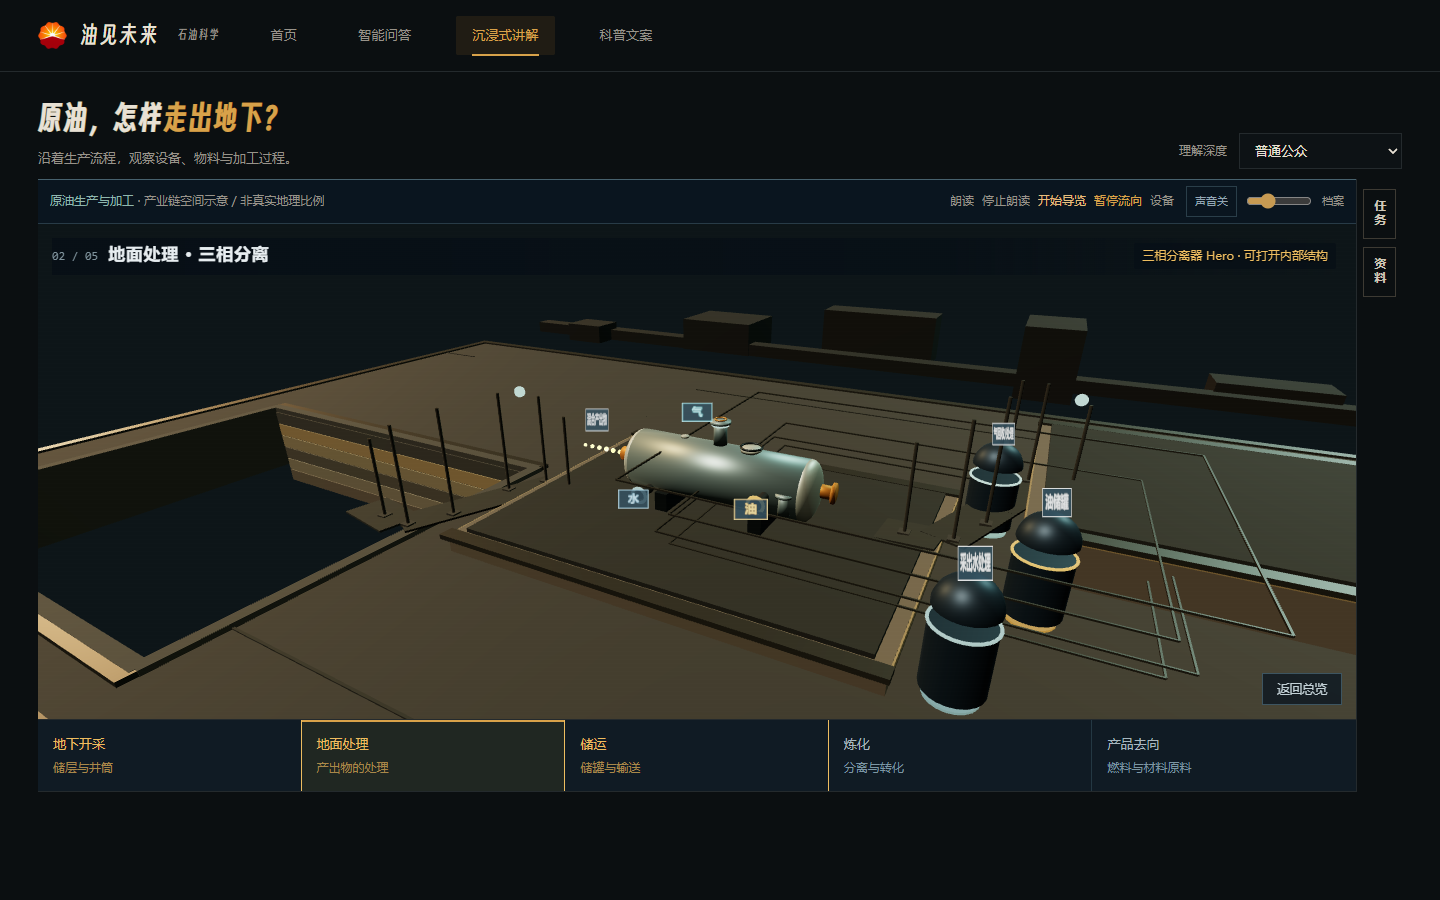
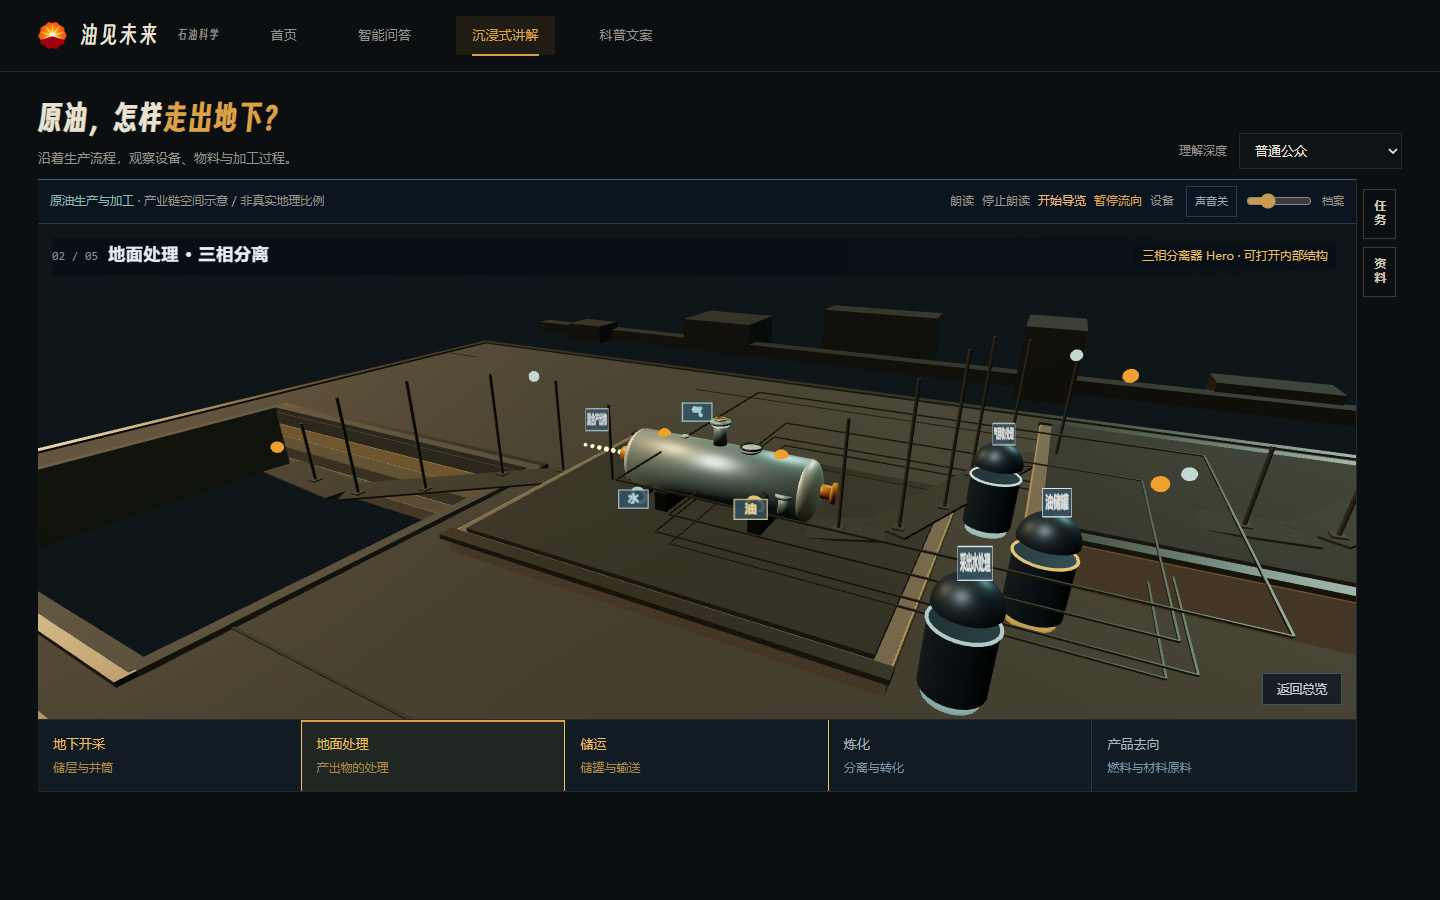
fix: connect overview process lines to equipment ports

diff --git a/web/immersion.js b/web/immersion.js
@@ -650,7 +650,7 @@
     const pump = new THREE.Group();
     pump.userData.objectId = 'pumpjack';
     pump.userData.skipMerge = true;
-    pump.position.set(-4.6, 0.16, 3.2);
+    pump.position.set(3.0, 0.16, 0.8);
     drill.add(pump);
     box(pump, 1.6, 0.25, 1.1, concrete, 0, 0.12, 0);
     rod(pump, [-1.4, 0.2, 0], [-1.4, 2.5, 0], 0.09, steel);
@@ -859,20 +859,30 @@
     const pipeGroup = new THREE.Group();
     pipeGroup.name = 'processLines';
     sceneRoot.add(pipeGroup);
+    /* 管线端口直接落在设备上，而不是区域边界。
+       端口坐标相对各自区域中心；这样井口→分离器、分离器→储罐、
+       储罐泵→加热炉、炼化管廊→产品端都能真正接上。 */
+    const ROUTE_PORTS = [
+      { start: [-0.6, 0.9, -2.2], end: [-1.6, 2.45, 0] },    // 井口 → 三相分离器入口（插入罐体 0.5）
+      { start: [2.1, 2.45, 0], end: [-4.2, 3.2, -1.6] },      // 分离器出口 → 固定顶罐侧面
+      { start: [-3.6, 1.0, 2.6], end: [-5.9, 2.2, 3.6] },     // 储运泵 → 加热炉侧面
+      { start: [4.4, 3.15, 2.8], end: [-3.4, 1.8, 2.2] }      // 炼化管廊 → 产品端
+    ];
     function routeEndpoints(i) {
       const a = REGIONS[i], b = REGIONS[i + 1];
+      const port = ROUTE_PORTS[i] || ROUTE_PORTS[ROUTE_PORTS.length - 1];
       const dx = b.x - a.x, dz = b.z - a.z;
       const len = Math.max(0.001, Math.sqrt(dx * dx + dz * dz));
       const ux = dx / len, uz = dz / len;
       const start = new THREE.Vector3(
-        a.x + ux * (a.w * 0.36),
-        a.y + 2.15,
-        a.z + uz * (a.d * 0.36)
+        a.x + port.start[0],
+        a.y + port.start[1],
+        a.z + port.start[2]
       );
       const end = new THREE.Vector3(
-        b.x - ux * (b.w * 0.36),
-        b.y + 2.15,
-        b.z - uz * (b.d * 0.36)
+        b.x + port.end[0],
+        b.y + port.end[1],
+        b.z + port.end[2]
       );
       return { a: a, b: b, start: start, end: end, ux: ux, uz: uz };
     }
@@ -887,6 +897,7 @@
       return road;
     }
     const routeIds = ['path_oil_gather', 'path_gather_store', 'path_store_refine', 'path_refine_city'];
+    const flangeMat = new THREE.MeshBasicMaterial({ color: 0xf0a22e, toneMapped: false });
     for (let i = 0; i < REGIONS.length - 1; i += 1) {
       const e = routeEndpoints(i);
       const midY = Math.max(e.start.y, e.end.y) + 1.2;
@@ -902,6 +913,12 @@
       const pipe = new THREE.Mesh(new THREE.TubeGeometry(curve, 64, 0.11, 8, false), amber.clone());
       pipe.userData.pathId = routeIds[i];
       pipeGroup.add(pipe);
+      /* 端口法兰：管线与设备相接处给一个可见接头，避免看起来悬空。 */
+      [e.start, e.end].forEach(function (p) {
+        const flange = new THREE.Mesh(new THREE.SphereGeometry(0.24, 12, 9), flangeMat);
+        flange.position.copy(p);
+        pipeGroup.add(flange);
+      });
       pipes.push({ curve: curve, object: pipe, pathId: routeIds[i] });
       /* 支架：从地面/台地到工艺管，强调高差 */
       for (let k = 1; k <= 6; k += 1) {

diff --git a/web/sandbox.html b/web/sandbox.html
@@ -202,7 +202,7 @@ body.journey-tour.journey-paused .lvl-entries{display:none!important}
 <script src="world/registry.js?v=v40"></script>
 <script src="world/state.js?v=v41"></script>
 <script src="scene-context.js?v=1"></script>
-<script src="immersion.js?v=fix82"></script>
+<script src="immersion.js?v=fix89"></script>
 <link rel="stylesheet" href="assets/site/tokens.css">
 <style>
   .view-hint{font-size:12px}
@@ -498,6 +498,7 @@ body.journey-tour #tour-cta{display:none}
 body.in-level .scene-head{display:flex!important;padding:6px 12px!important}
 </style></body>
 </html>
+
 
 
 

diff --git a/CHANGELOG.md b/CHANGELOG.md
@@ -11,6 +11,7 @@
 - 体验入口合并：页面不再显示“沉浸导览/自由探索/任务关卡”三张模式卡，只保留场景头“开始导览”；自由探索为默认，任务从右栏“任务”进入；旧模式按钮仅作隐藏程序化兼容钩子。
 - 工具栏修正：浏览器“朗读”现在读取并朗读右侧当前讲解（原先没有写入文本，点击后无反应）；移除“更多→声音”重复入口，并合并侧栏“朗读讲解”到顶部朗读，只保留顶部合成环境音/音量控制。
 - 储运清理：去掉通用“按住液位条”引导条和“教学示意/不代表实际排放/（示意）”文字；参照地面处理改成“选择设备 → 调节液位”两步，结构/泵送收进“演示与结构”；移除罐顶说明标签并修复设备标签截断；储运默认改为半剖；隐藏前景平台遮挡，45% 液位也能看到罐内液面；设备选择增加高亮环和“已选”标记；剖面改为真正的后半圈罐壁，不再隐藏整只罐壁。
+- 总览：四条工艺管线端口改接设备侧面/顶部并加法兰，抽油机移到“地下开采”图块中部。
 - 地下开采清理：移除左栏教学长文/状态说明、右栏“沿井筒上行/暂停流动”和底部工具条；恢复原压力滑块（仅保留滑块与百分比，无文字说明/操作引导）和 V3 式抽取动画（储层汇流 + 井筒上升粒子 + 脉动环）。进入关卡保持地层剖面并叠加孔隙视图；孔隙球收在最底层基底内；井筒沿纵深半剖，露出管腔内的液体柱和上升颗粒；拖动滑块时井筒粒子上升、底部颗粒同步减少，反向拖动恢复；M1 由滑块 ≥50% 判定。
 - 结论：**技术/交互复审修复完成（36/0）；仍因继承的旧 Dify key 有效而保持 REVISE；用户签收待完成**。
 

diff --git a/docs/phase-reports/phase-08-handoff.md b/docs/phase-reports/phase-08-handoff.md
@@ -351,5 +351,6 @@ phase08-02b-action-suggestion.png
 - 储运默认半剖：剖面模式隐藏罐壁，保留底座/顶盖/液体；进入本关时临时隐藏挡住罐区的前景地形层，退出恢复。这样 0–100% 任意液位都能看到罐内液面，不再只在 70% 左右才露出来。
 - 设备选择反馈：点固定顶罐/外浮顶罐/转输泵组时，选中对象出现高亮环和“已选”浮标，右侧状态胶囊与按钮同步；泵组也有独立高亮环。
 - 罐体剖面改为**后半圈罐壁**（半圆柱），前面敞开；不再整只隐藏罐壁，避免顶盖悬空、页面像缺模型。
+- 总览管线：四条工艺管线的端口从区域边界改为设备实际接口（井口、分离器端面、储罐侧面、加热炉侧面、产品端），并加端口法兰；抽油机移到“地下开采”图块中部。
 - M3 提示改为“液位超过 70% 后，打开‘演示与结构’，点‘启动泵送’”。
 - 验证：阶段 08 **58/0**（新增 l3 分步、无通用引导、无教学免责声明、details 泵送可用）；阶段 07 **76/0**。

diff --git a/docs/phase-reports/evidence/phase-08/README.md b/docs/phase-reports/evidence/phase-08/README.md
@@ -14,6 +14,8 @@
 - `phase08-l3-select-pump.png`：点“转输泵组”后，泵组高亮环与“已选”标记。
 - `phase08-l3-halfshell-0.png`：真正的半剖罐壁，2% 液位。
 - `phase08-l3-halfshell-45.png`：真正半剖罐壁，45% 液位。
+- `overview-final.png`：总览管线接到设备、抽油机居中。
+- `overview-routes-closeup4.png`：总览管口中近景。
 - `phase08-l3-cut-public.png`：线上 V35 默认半剖，液位 70% 的最终效果。
 - `phase08-l3-default.png`：储运默认面板，设备选择与液位调节分开，无通用引导/教学免责声明。
 - `phase08-l3-clean.png`：展开“演示与结构”并启动泵送后的面板。
